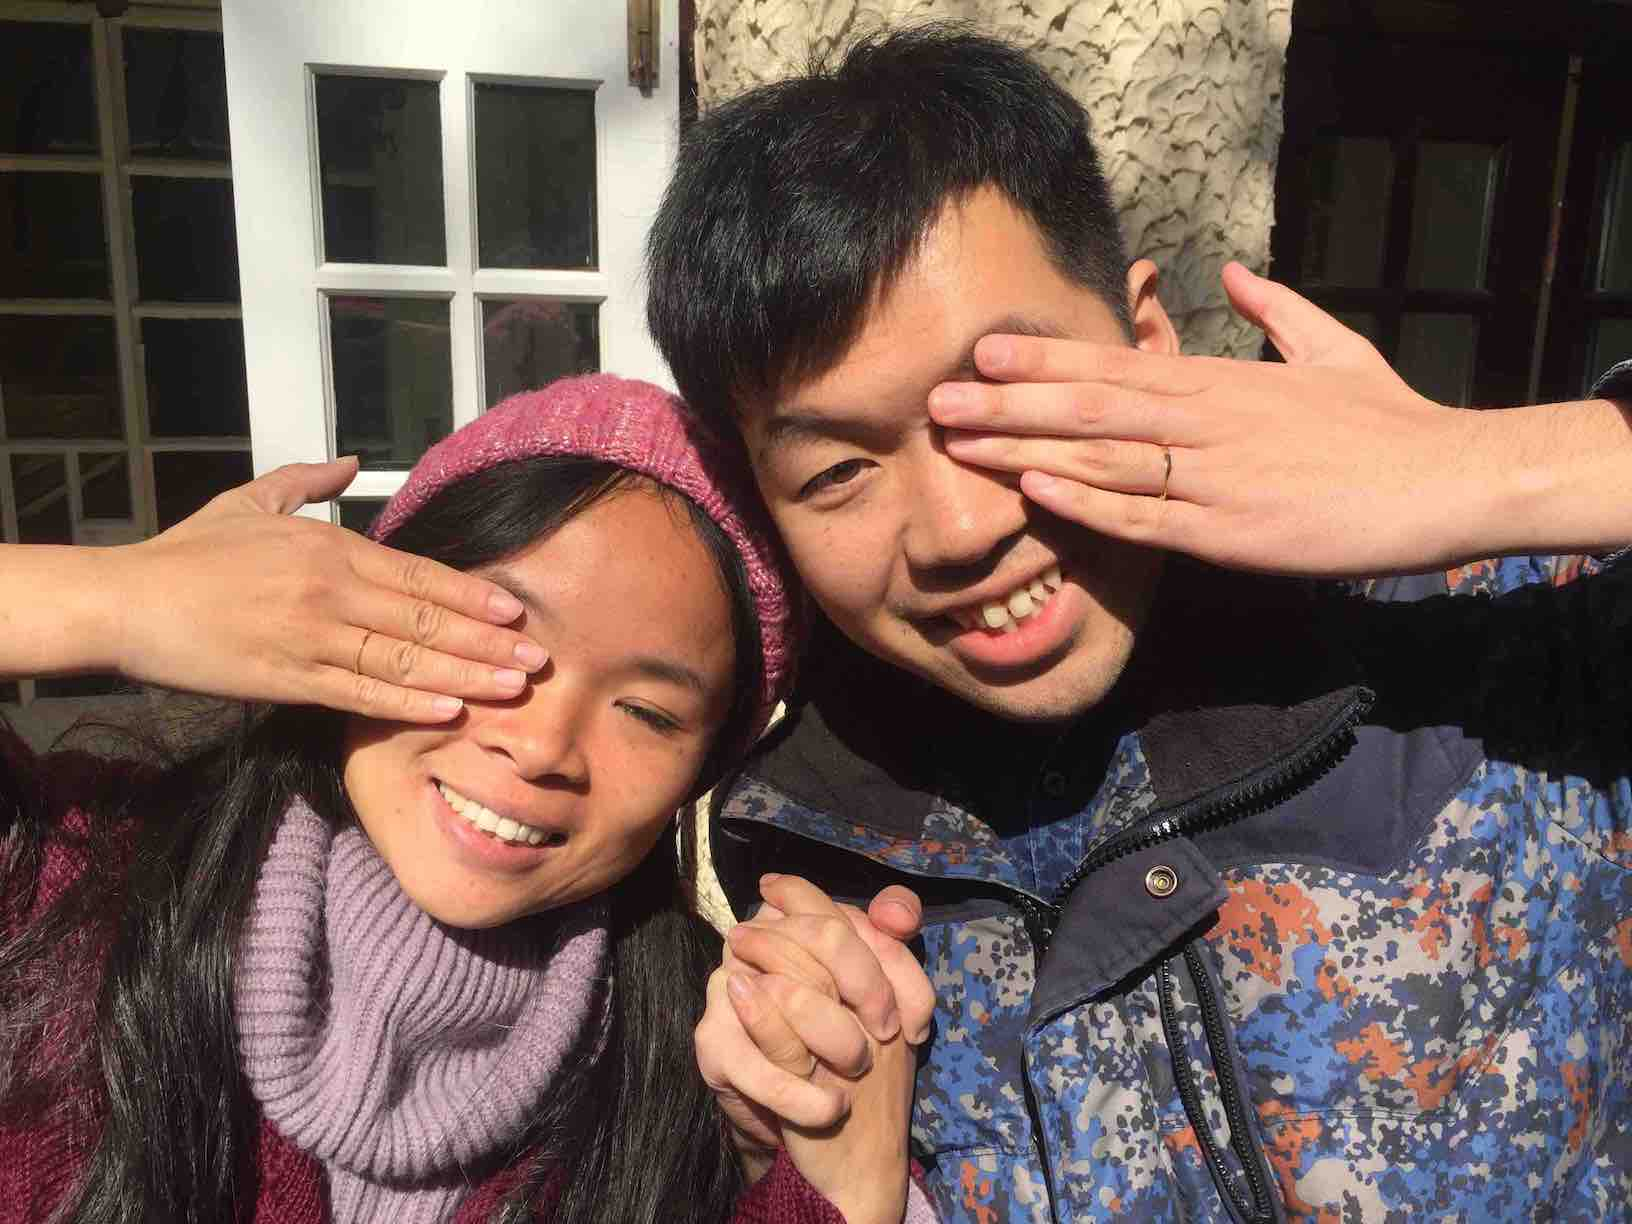
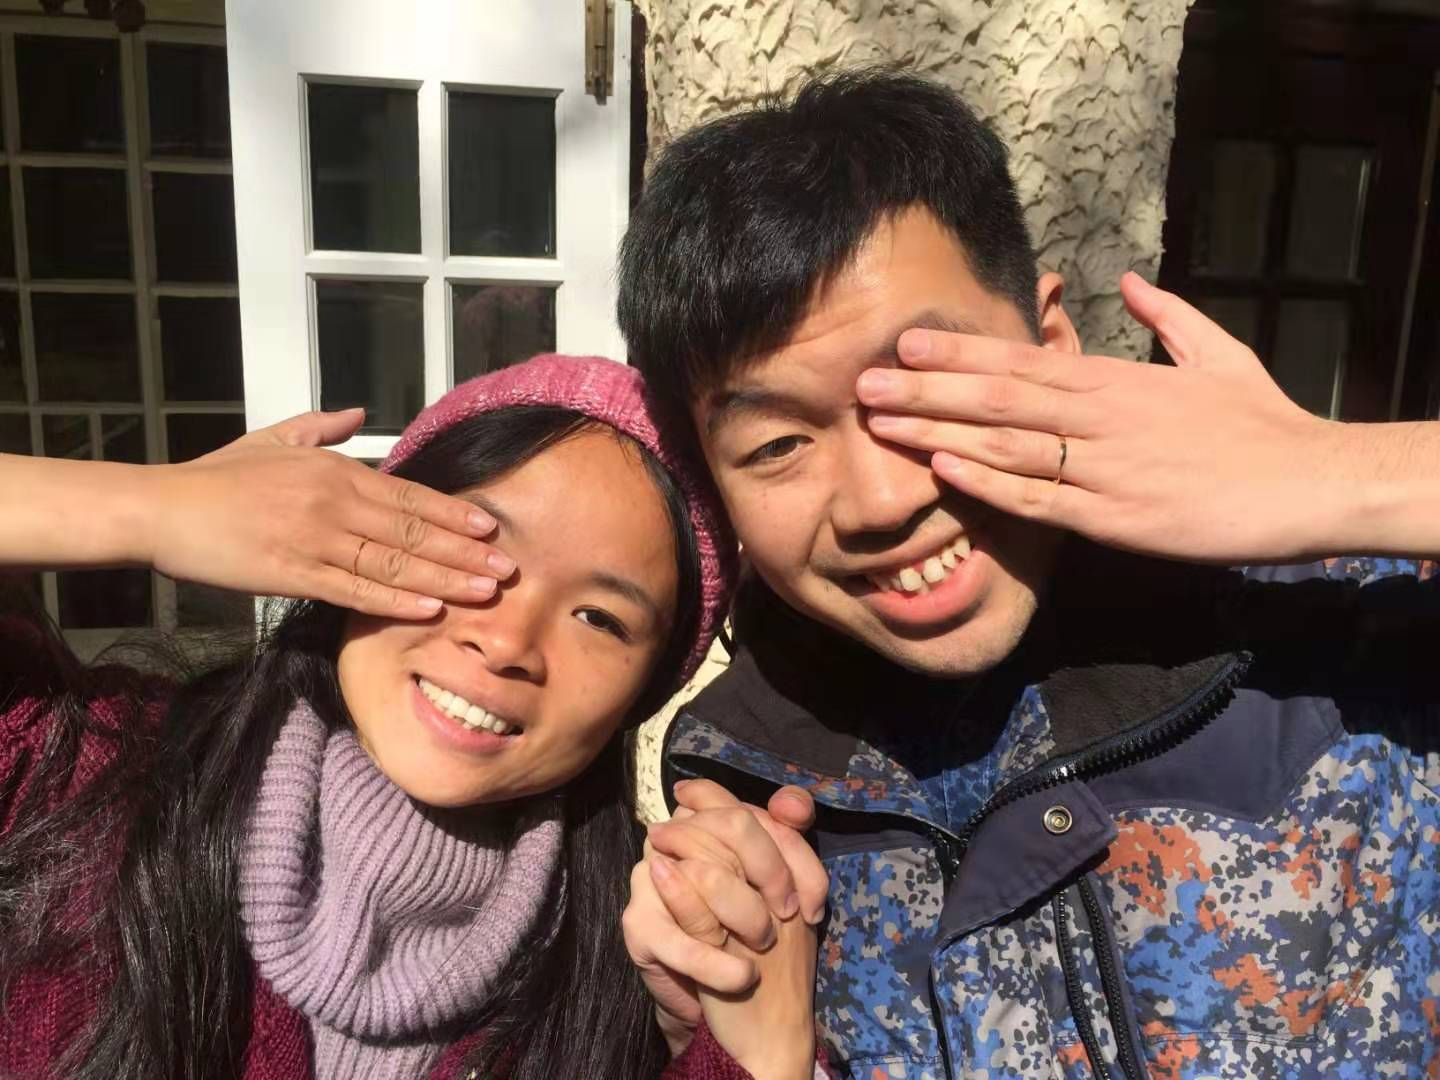
update hero image

diff --git a/index.html b/index.html
@@ -20,7 +20,7 @@
   </head>
   <body>
   <!-- first section -->
-  <section class="hero has-bg-img is-dark is-fullheight" style="background-image: url(images/hero-ring.jpg);">
+  <section class="hero has-bg-img is-dark is-fullheight" style="background-image: url(images/hero-ring.jpg); background-position: center;">
     <nav class="navbar is-fixed-top" role="navigation" aria-label="main navigation">
       <div class="navbar-brand">
         <a class="navbar-item" style="pointer-events:none;">
